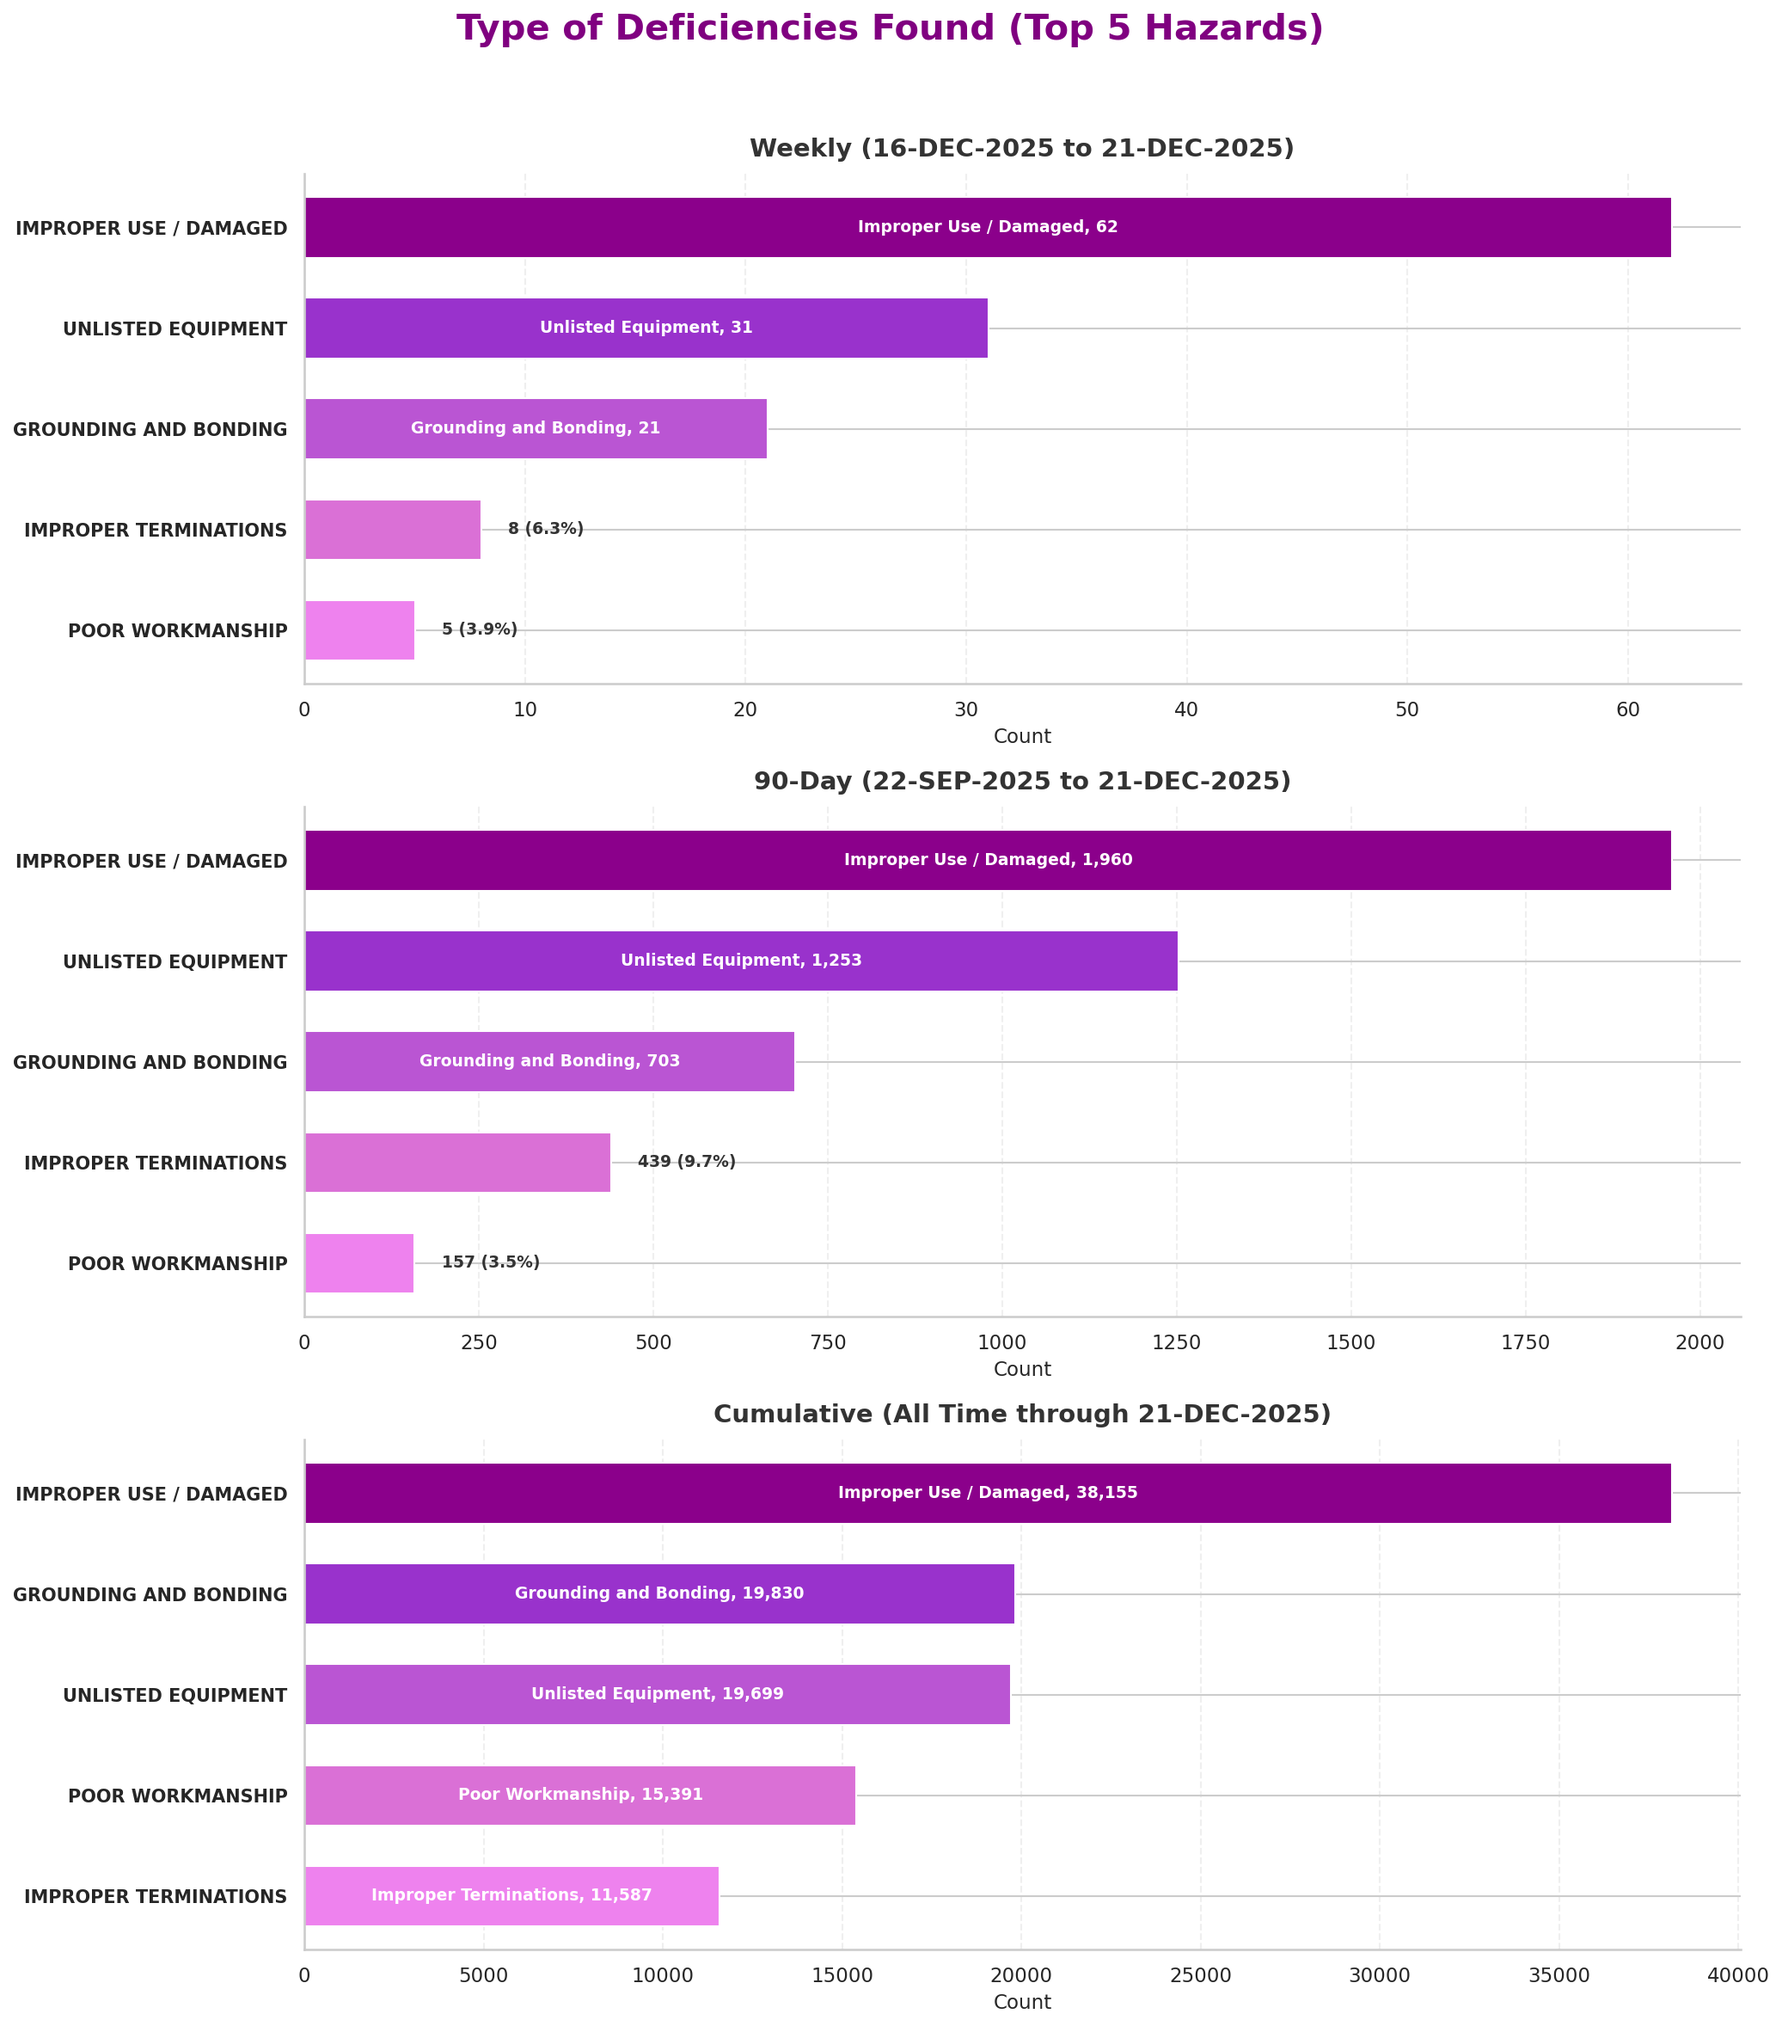
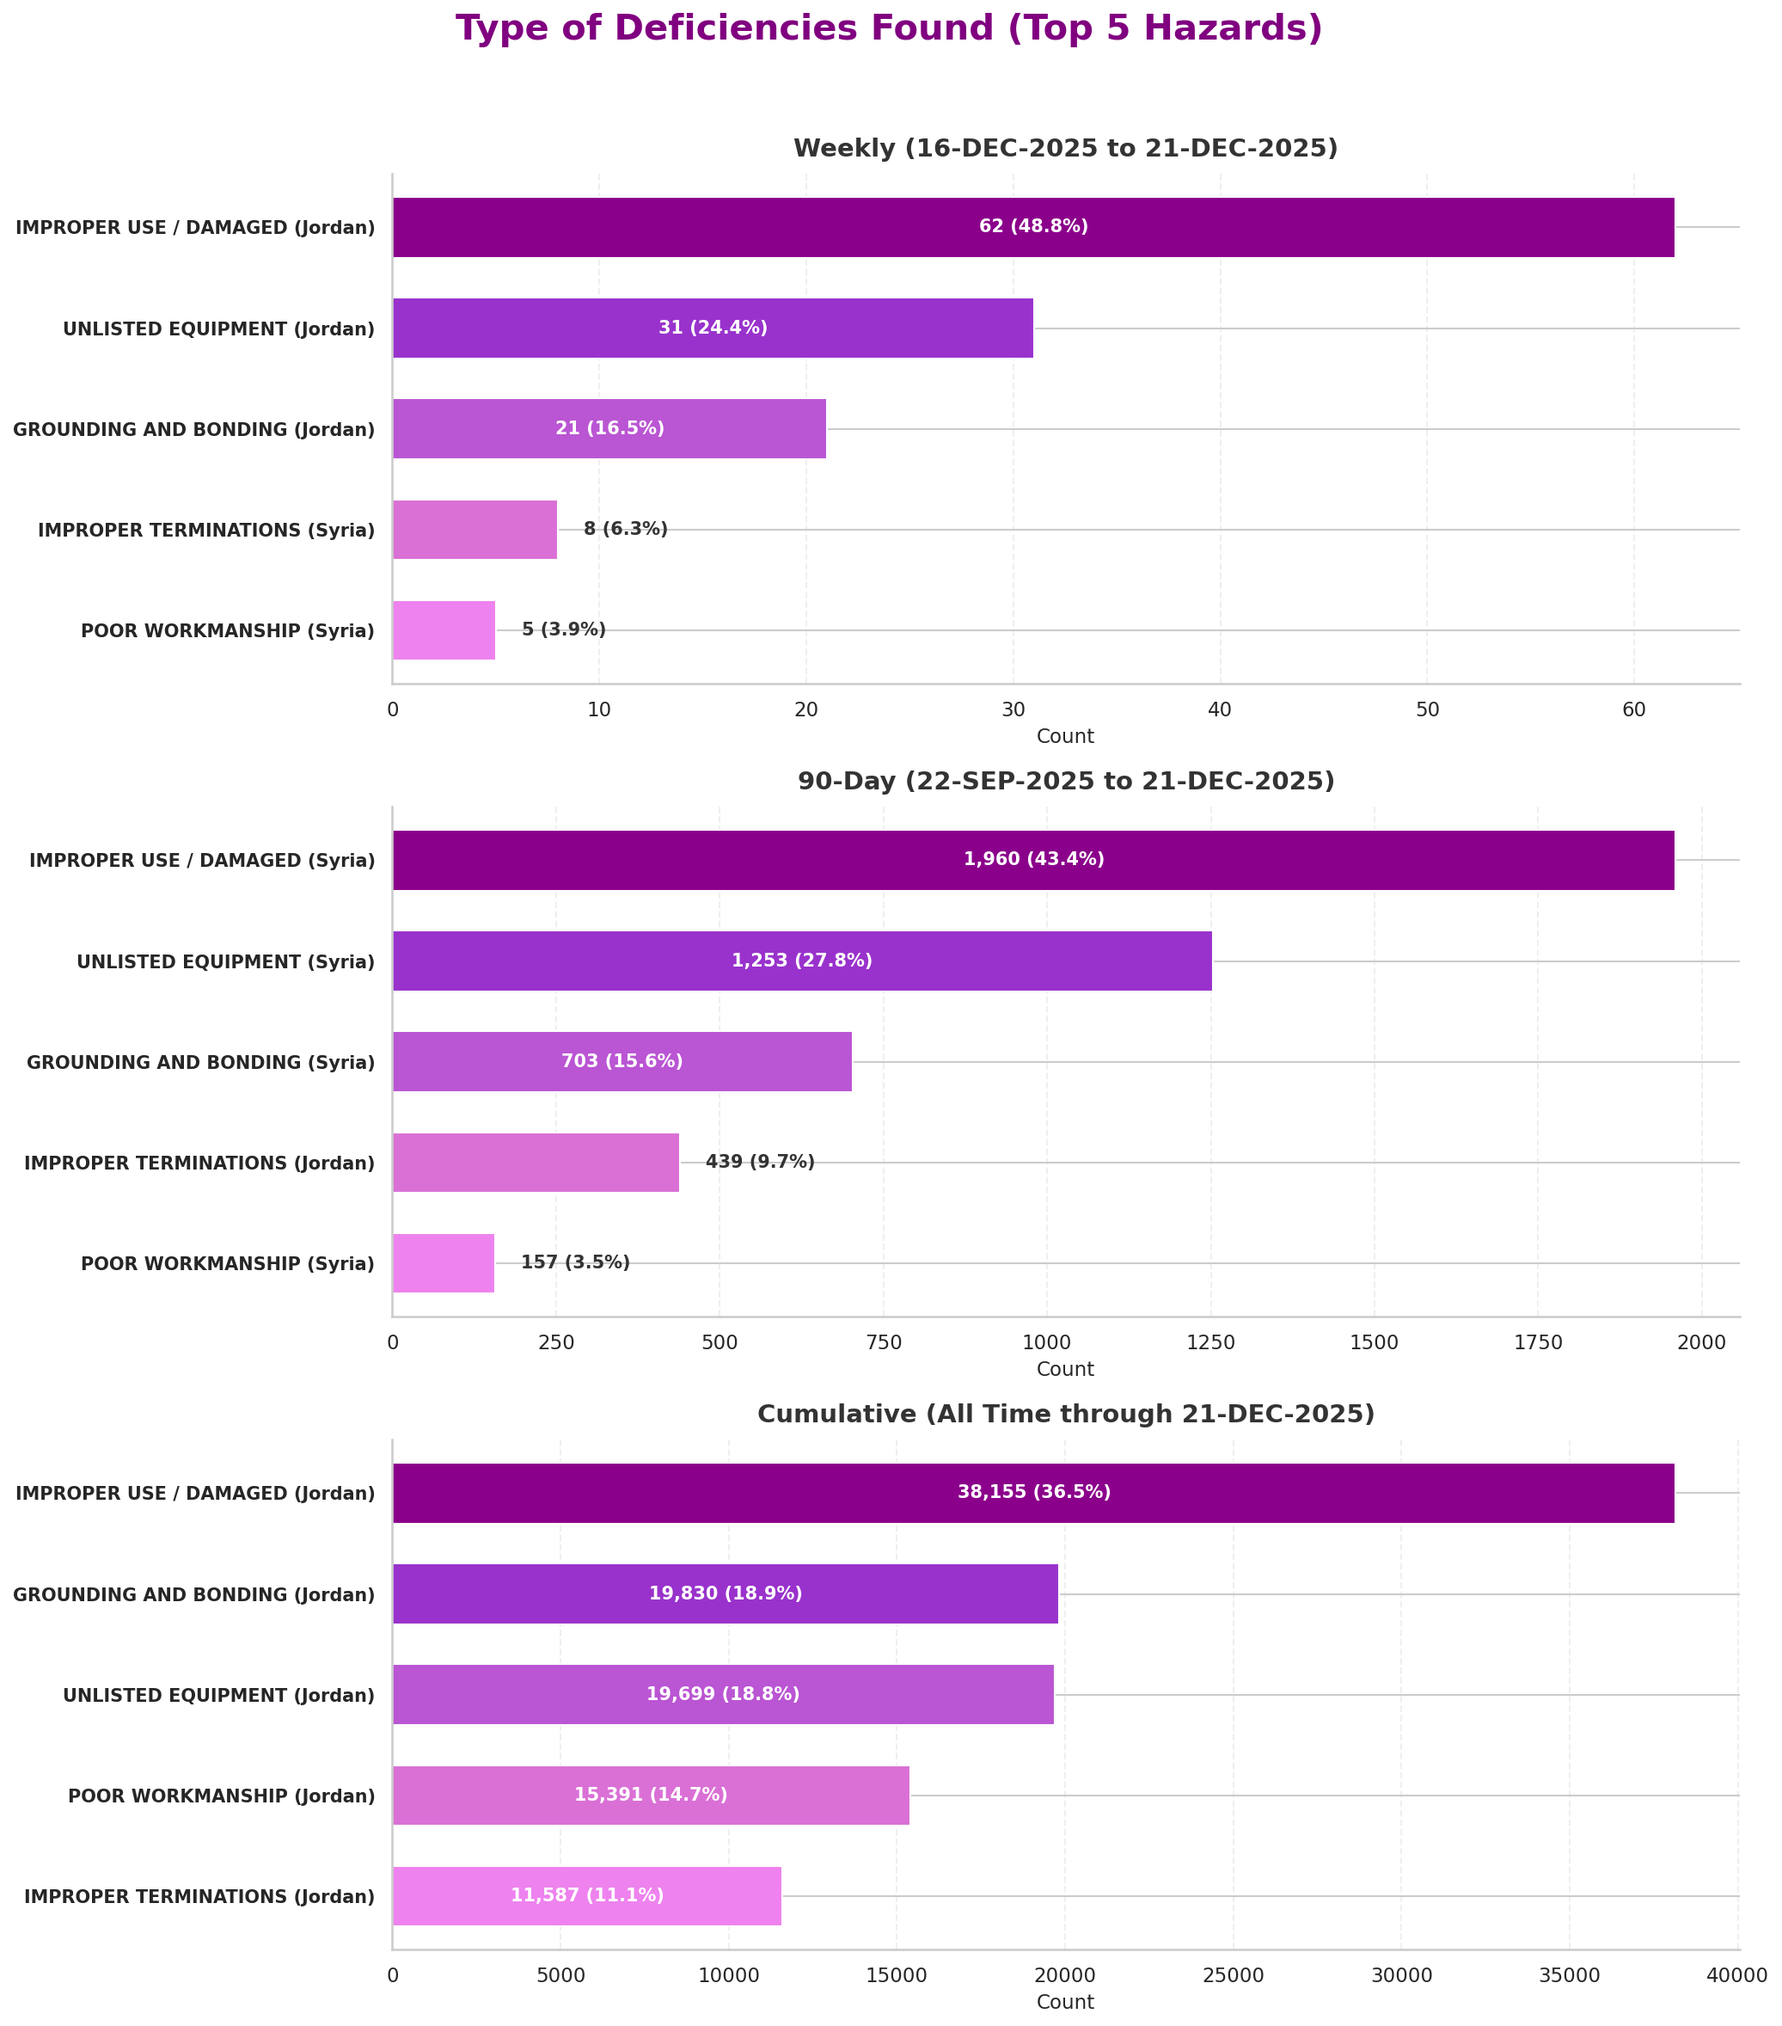
Slide 03 Top 5 Hazards: add top country per category, show percentage on all bars

diff --git a/scripts/generate_weekly_report.py b/scripts/generate_weekly_report.py
@@ -721,7 +721,7 @@ def generate_facilities_inspected_table(conn, start_date, end_date, output_path)
 
 
 def get_top5_hazards(conn, start_date, end_date):
-    """Get top 5 deficiency categories (hazards) with counts.
+    """Get top 5 deficiency categories (hazards) with counts and top country.
     
     Args:
         conn: Database connection
@@ -738,23 +738,39 @@ def get_top5_hazards(conn, start_date, end_date):
     ]
     
     if start_date:
-        date_filter = "WHERE inspection_date >= ? AND inspection_date <= ?"
+        date_filter = "WHERE md.inspection_date >= ? AND md.inspection_date <= ?"
         params = [start_date, end_date]
     else:
-        date_filter = "WHERE inspection_date <= ?"
+        date_filter = "WHERE md.inspection_date <= ?"
         params = [end_date]
     
-    # Get counts for each category
+    # Get counts and top country for each category
     results = []
     for category in top5_categories:
-        query = f"""
+        # Get total count
+        count_query = f"""
             SELECT COUNT(*) as cnt 
-            FROM master_deficiencies 
-            {date_filter} AND def_category = ?
+            FROM master_deficiencies md
+            {date_filter} AND md.def_category = ?
         """
-        df = pd.read_sql_query(query, conn, params=params + [category])
-        count = df['cnt'].iloc[0] if not df.empty else 0
-        results.append({'category': category, 'count': count})
+        df_count = pd.read_sql_query(count_query, conn, params=params + [category])
+        count = df_count['cnt'].iloc[0] if not df_count.empty else 0
+        
+        # Get top country for this category
+        country_query = f"""
+            SELECT co.name as country, COUNT(*) as cnt
+            FROM master_deficiencies md
+            JOIN camps ca ON md.camp_id = ca.id
+            JOIN countries co ON ca.country_id = co.id
+            {date_filter} AND md.def_category = ?
+            GROUP BY co.name
+            ORDER BY cnt DESC
+            LIMIT 1
+        """
+        df_country = pd.read_sql_query(country_query, conn, params=params + [category])
+        top_country = df_country['country'].iloc[0] if not df_country.empty else 'N/A'
+        
+        results.append({'category': category, 'count': count, 'top_country': top_country})
     
     return pd.DataFrame(results)
 
@@ -804,27 +820,27 @@ def generate_top5_hazards_chart(conn, start_date, end_date, output_path):
         y_pos = range(len(df_sorted))
         bars = ax.barh(y_pos, df_sorted['count'], color=colors[::-1], edgecolor='white', height=0.6)
         
-        # Set labels
+        # Set labels with top country in brackets
         ax.set_yticks(y_pos)
-        ax.set_yticklabels([cat.upper() for cat in df_sorted['category']], fontsize=10, fontweight='bold')
+        y_labels = [f"{row.category.upper()} ({row.top_country})" for row in df_sorted.itertuples()]
+        ax.set_yticklabels(y_labels, fontsize=10, fontweight='bold')
         ax.set_xlabel('Count', fontsize=11)
         ax.set_title(title, fontsize=14, fontweight='bold', color='#333333', pad=10)
         
         # Add count and percentage labels on bars
         for i, (bar, row) in enumerate(zip(bars, df_sorted.itertuples())):
             width = bar.get_width()
-            label = f"{row.category}, {int(row.count):,}"
-            pct_label = f"({row.percentage:.1f}%)"
+            label = f"{int(row.count):,} ({row.percentage:.1f}%)"
             
             # Position label inside or outside bar based on width
             if width > df_sorted['count'].max() * 0.3:
                 ax.text(width * 0.5, bar.get_y() + bar.get_height()/2,
-                       f"{row.category}, {int(row.count):,}",
-                       ha='center', va='center', fontsize=9, color='white', fontweight='bold')
+                       label,
+                       ha='center', va='center', fontsize=10, color='white', fontweight='bold')
             else:
                 ax.text(width + df_sorted['count'].max() * 0.02, bar.get_y() + bar.get_height()/2,
-                       f"{int(row.count):,} ({row.percentage:.1f}%)",
-                       ha='left', va='center', fontsize=9, color='#333333', fontweight='bold')
+                       label,
+                       ha='left', va='center', fontsize=10, color='#333333', fontweight='bold')
         
         # Style
         ax.spines['top'].set_visible(False)
